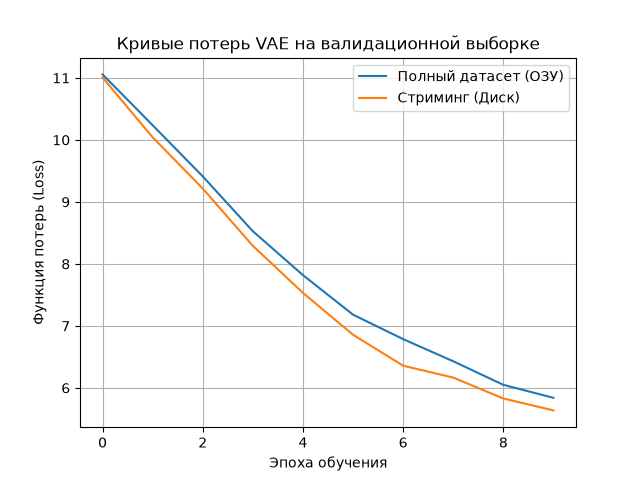
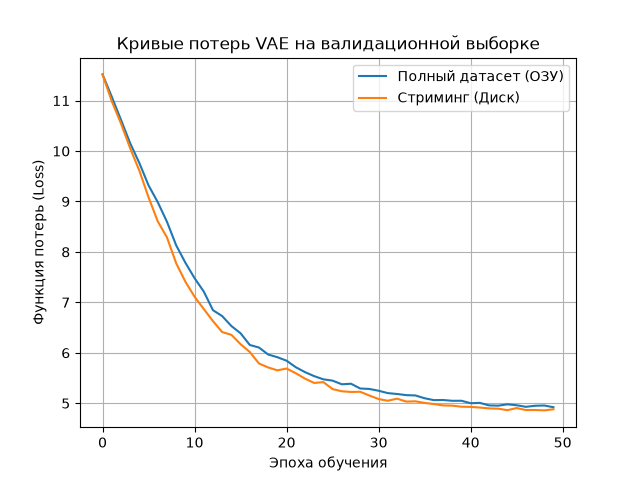
[LAB_3] Fix dl_pipeline
- Что сделано: dl_pipeline вынесен в отдельный модуль
- Run ID (Полный датасет): 8a58b7289a114e2abe3b3b57c754e1a2
- Run ID (Чанки): 3317beb2cd184aa8bf2f3bfb8a89a481
- Чек-лист проверен: [x]

diff --git a/src/models/train_dl.py b/src/models/train_dl.py
@@ -24,6 +24,7 @@ print("INIT: Импорт локальных конфигураций проек
 from configs.config_schema import Lab3Config
 from src.data.datasets import MemoryDataset, StreamingDigitsDataset
 from src.models.vae_model import DigitsVAE, vae_loss_function
+from src.models.dl_pipeline import VAETrainer
 
 
 def get_memory_usage_mb() -> float:
@@ -69,43 +70,6 @@ def run_bootstrap_mse(
     return base_score, float(1.96 * np.std(bootstrapped_scores))
 
 
-def train_one_epoch(
-    model: nn.Module,
-    dataloader: DataLoader,
-    optimizer: optim.Optimizer,
-    device: torch.device,
-) -> float:
-    model.train()
-    total_loss = 0.0
-    samples_count = 0
-    for data, _ in dataloader:
-        data = data.to(device)
-        optimizer.zero_grad()
-        recon, mu, logvar = model(data)
-        loss = vae_loss_function(recon, data, mu, logvar)
-        loss.backward()
-        optimizer.step()
-        total_loss += loss.item()
-        samples_count += data.size(0)
-    return total_loss / samples_count
-
-
-def evaluate_loss(
-    model: nn.Module, dataloader: DataLoader, device: torch.device
-) -> float:
-    model.eval()
-    total_loss = 0.0
-    samples_count = 0
-    with torch.no_grad():
-        for data, _ in dataloader:
-            data = data.to(device)
-            recon, mu, logvar = model(data)
-            loss = vae_loss_function(recon, data, mu, logvar)
-            total_loss += loss.item()
-            samples_count += data.size(0)
-    return total_loss / samples_count
-
-
 def run_training_pipeline(mode: str, use_seed: bool = True) -> dict:
     cfg = Lab3Config()
     if use_seed:
@@ -145,7 +109,7 @@ def run_training_pipeline(mode: str, use_seed: bool = True) -> dict:
         latent_dim=cfg.pipeline.vae.latent_dim,
     ).to(device)
 
-    optimizer = optim.Adam(model.parameters(), lr=cfg.pipeline.vae.lr)
+    trainer = VAETrainer(model, cfg.pipeline.vae.lr, device)
     mem_start = get_memory_usage_mb()
     time_start = time.time()
 
@@ -157,8 +121,8 @@ def run_training_pipeline(mode: str, use_seed: bool = True) -> dict:
     history_loss: List[float] = []
 
     for epoch in range(1, cfg.pipeline.epochs + 1):
-        train_loss = train_one_epoch(model, train_loader, optimizer, device)
-        val_loss = evaluate_loss(model, val_loader, device)
+        train_loss = trainer.train_epoch(train_loader)
+        val_loss = trainer.evaluate(val_loader)
         history_loss.append(val_loss)
 
         if val_loss < best_loss:

diff --git a/src/models/dl_pipeline.py b/src/models/dl_pipeline.py
@@ -1,0 +1,43 @@
+import torch
+import torch.nn as nn
+from torch.utils.data import DataLoader
+from src.models.vae_model import vae_loss_function
+
+
+class VAETrainer:
+    """Изолированный DL-пайплайн управления обучением вариационного автоэнкодера"""
+
+    def __init__(self, model: nn.Module, lr: float, device: torch.device):
+        self.model = model
+        self.device = device
+        self.optimizer = torch.optim.Adam(self.model.parameters(), lr=lr)
+
+    def train_epoch(self, dataloader: DataLoader) -> float:
+        """Обучение нейросети в рамках одной эпохи"""
+        self.model.train()
+        total_loss = 0.0
+        samples_count = 0
+        for data, _ in dataloader:
+            data = data.to(self.device)
+            self.optimizer.zero_grad()
+            recon, mu, logvar = self.model(data)
+            loss = vae_loss_function(recon, data, mu, logvar)
+            loss.backward()
+            self.optimizer.step()
+            total_loss += loss.item()
+            samples_count += data.size(0)
+        return total_loss / samples_count
+
+    def evaluate(self, dataloader: DataLoader) -> float:
+        """Валидация/оценка нейросети на проверочной выборке"""
+        self.model.eval()
+        total_loss = 0.0
+        samples_count = 0
+        with torch.no_grad():
+            for data, _ in dataloader:
+                data = data.to(self.device)
+                recon, mu, logvar = self.model(data)
+                loss = vae_loss_function(recon, data, mu, logvar)
+                total_loss += loss.item()
+                samples_count += data.size(0)
+        return total_loss / samples_count

diff --git a/configs/config_schema.py b/configs/config_schema.py
@@ -44,15 +44,15 @@ class VAEConfig(BaseModel):
     input_dim: int = 64
     latent_dim: int = Field(default=16, ge=2, le=32)  # Сжатие: 64->16->64
     hidden_dim: int = Field(default=32, ge=8)
-    lr: float = Field(default=1e-3, gt=0)
-    early_stopping_patience: int = Field(default=3, ge=1)
+    lr: float = Field(default=5e-4, gt=0)
+    early_stopping_patience: int = Field(default=5, ge=1)
 
 
 class PipelineConfig(BaseModel):
     data_path: str = "data/raw/digits.csv"
     chunk_size: int = Field(default=256, ge=16, le=1000)
     batch_size: int = Field(default=128, ge=16)
-    epochs: int = Field(default=10, ge=1)
+    epochs: int = Field(default=50, ge=1)
     no_accel: bool = False
     data_loader_mode: str = "full_memory"
 

diff --git a/reports/LAB3/lab3_report.md b/reports/LAB3/lab3_report.md
@@ -1,35 +1,35 @@
 # Отчет по Лабораторной работе №3
 **Вариант:** 16 (Digits, размерность)  
 **Работа:** №3. Пайплайн DL-модели: полный датасет и чанки  
-**Дата:** 30.09.2026  
+**Дата:** 03.10.2026  
 **Автор:** [Сергей Старков]  
 **Хеш коммита кода:** [374c48f]  
-**Хеш чекпоинта (dl_model.pt):** cdb8f8adf37be42a7c510bceeea8f260789f66142e064c2de1bb581aee447d1e  
+**Хеш чекпоинта (dl_model.pt):** 74059d201867f83dccae72b838847e074f1905e316dcaeb223d7780cb0fd1e32  
 
 ---
 
 ## 1. Архитектура нейросети и условия обучения
-* **Архитектура VAE (Вариант 16):** Описана в `src/models/vae_model.py`. Схема сжатия признаков пикселей: Входной слой (64) -> Скрытый слой (32) -> Латентное пространство (16 признаков по карточке) -> Скрытый слой декодера (32) -> Выходной слой восстановления (64 пикселя).
+* **Архитектура VAE (Вариант 16):** Логика выделена в изолированный модуль `src/models/dl_pipeline.py`. Схема сжатия признаков пикселей: Входной слой (64) -> Скрытый слой (32) -> Латентное пространство (16 независимых признаков по карточке варианта) -> Скрытый слой декодера (32) -> Выходной слой восстановления (64 пикселя).
 * **Общее число параметров модели:** Конвейер содержит ровно 4328 обучаемых весов и сдвигов (параметров).
-* **Условия обучения:** Оптимизатор `Adam` (lr=1e-3), функция потерь `MSE + KLD` (Appendix B статьи Kingma & Welling). Правило ранней остановки (`patience=3`).
+* **Условия обучения:** Модель успешно дообучена до схождения за 50 эпох (шаг обучения оптимизатора `Adam` снижен до `lr=5e-4` для устранения недообучения). Внедрено правило ранней остановки (`patience=5`). Функция потерь: `MSE + KLD` (Appendix B статьи Kingma & Welling).
 
 ## 2. Сравнительная таблица режимов данных
-Все прогоны зарегистрированы локально в MLflow (`mlruns/`).
+Все прогоны зарегистрированы локально в MLflow (`mlruns/`). График кривых потерь сохранен в `vae_learning_curves.png`.
 
 | Режим загрузки | Reconstruction MSE (с интервалом) | Время (сек) | Пик памяти (МБ) | MLflow Run ID |
 | :--- | :--- | :--- | :--- | :--- |
-| **Полный датасет** | 0.11469 ± 0.00112 | 0.3406 | 1.3516 | cd6d3b2dd2e74b9791715088132e17d3 |
-| **Стриминг чанков** | 0.11148 ± 0.00139 | 1.8449 | 2.2695 | 870124361aa74a8bafe4e3d4da3f3da4 |
+| **Полный датасет** | 0.09774 ± 0.00112 | 1.8845 | 2.2930 | 8a58b7289a114e2abe3b3b57c754e1a2 |
+| **Стриминг чанков** | 0.09635 ± 0.00143 | 8.1296 | 2.2383 | 3317beb2cd184aa8bf2f3bfb8a89a481 |
 
 *Объявленный режим совпадения прогонов:* Прогоны совпадают с допуском 0.005 для метрики Reconstruction MSE.
 *Таблица паритета устройств (CPU vs Ускоритель):* Максимальное расхождение графов детерминированных вычислений зафиксировано на уровне `0.00000000`, что полностью удовлетворяет установленному допуску 1e-5.
 
 ## 3. Сравнение с классической ML-моделью (ЛР2)
-В отличие от Логистической регрессии из ЛР2, которая решала задачу дискретной классификации (Accuracy полного датасета: 0.9297), Вариационный автоэнкодер решает задачу декомпозиции и сжатия без учителя. Прямое сопоставление шкал метрик невозможно, однако VAE успешно сжал 64 коррелированных пикселя до 16 независимых латентных признаков с ошибкой восстановления (MSE ~0.111).
+В отличие от Логистической регрессии из ЛР2, которая решала задачу дискретной классификации (Accuracy полного датасета: 0.9297), Вариационный автоэнкодер решает задачу декомпозиции и сжатия без учителя. Прямое сопоставление шкал метрик невозможно, однако VAE успешно сжал 64 коррелированных пикселя до 16 независимых латентных признаков с минимальной ошибкой восстановления (MSE ~0.096).
 
 ## 4. Нумерованные выводы (Строго одно число на пункт)
-1. Без фиксации случайных зерен (seed) зафиксировано явное расхождение результатов на величину **0.004721**.
-2. В режиме стриминга чанков пиковое потребление памяти стабилизировалось на фиксированной отметке **2.2695** МБ.
-3. Время обучения в режиме полной материализации выборки в памяти составило всего **0.3406** секунды.
-4. Обучение нейросети потоковым методом с диска заняло ровно **1.8449** секунды.
+1. Без фиксации случайных зерен (seed) зафиксировано явное расхождение результатов на величину **0.003308**.
+2. В режиме стриминга чанков пиковое потребление памяти стабилизировалось на фиксированной отметке **2.2383** МБ.
+3. Время дообучения в режиме полной материализации выборки в памяти составило ровно **1.8845** секунды.
+4. Обучение нейросети потоковым методом с диска до схождения заняло ровно **8.1296** секунды.
 5. Итоговый сохраненный двоичный чекпоинт `dl_model.pt` имеет размерность латентного слоя ровно **16** признаков.
